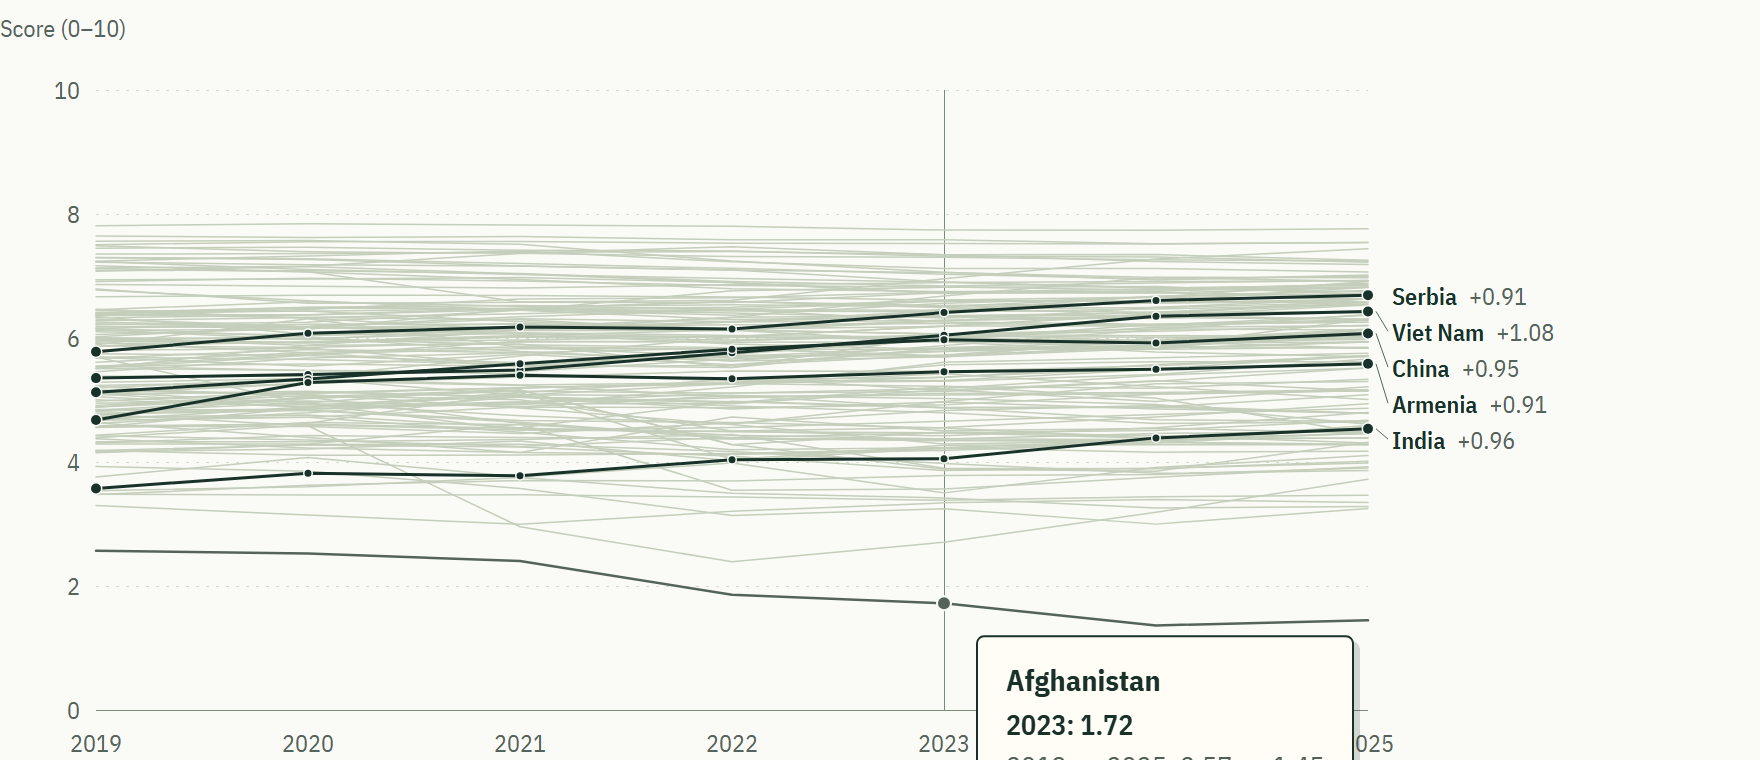
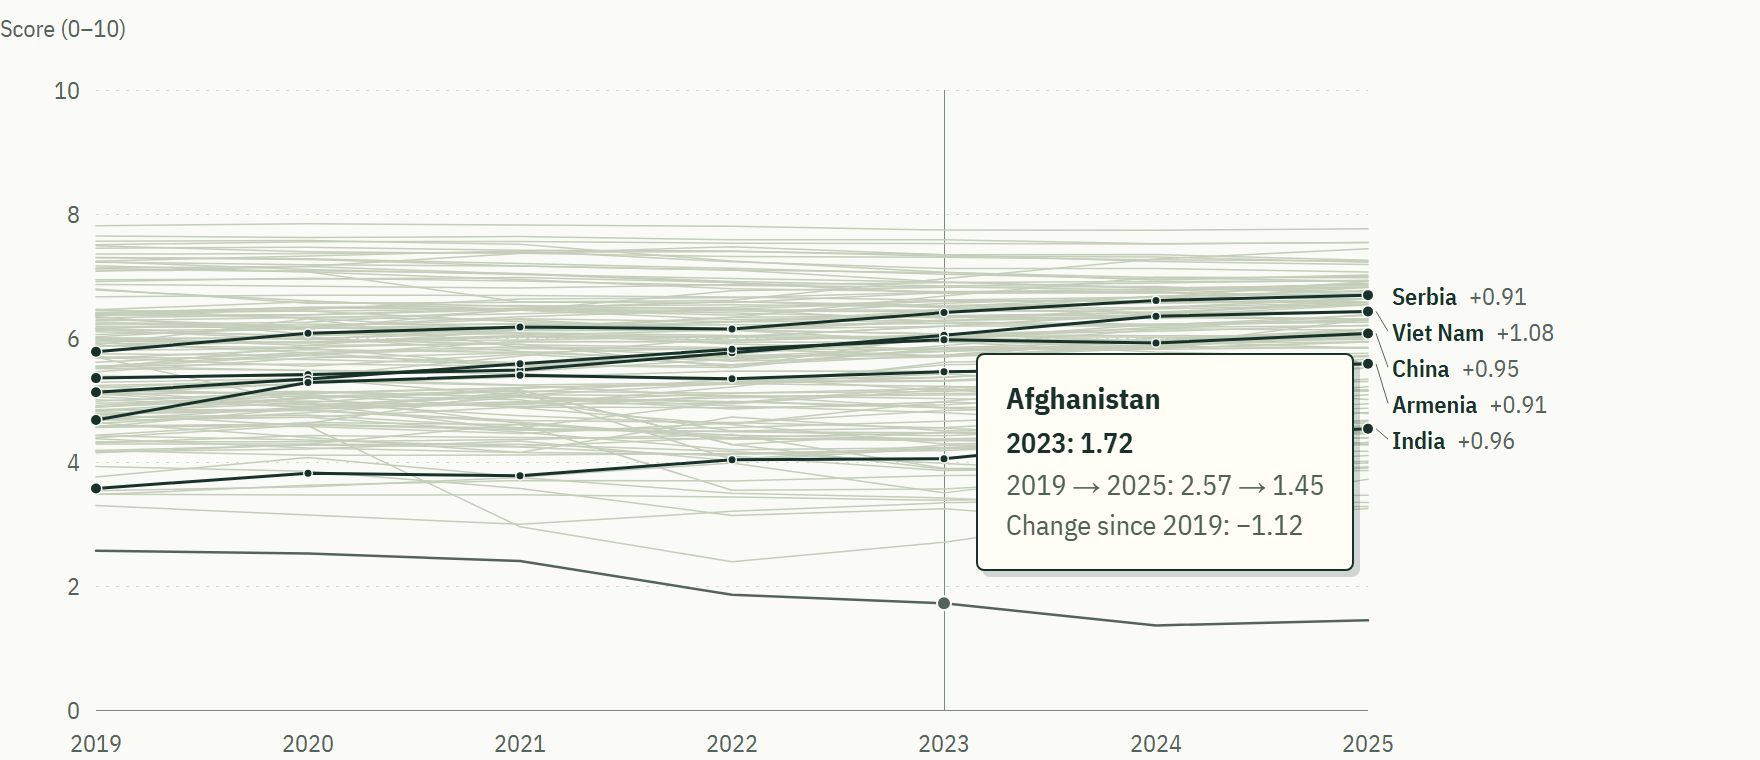
ai: fix what the final sweep found in this build
A read-only sweep of what the checker hadn't covered confirmed 9 findings, each verified by a skeptic.
None blocks submission. Fixed here:
- The chart 2 still had its tooltip cut off by the crop, since the one-screen layout stopped the page
  scrolling and the tooltip no longer flipped. Recaptured whole; capture_d3.py now stops if it leaves
  the crop.
- PageDown, PageUp, Home, End and, from the bare page, arrows and space did nothing until focus was
  inside the view, so the keyboard couldn't reach Figma vs D3 straight away. They're passed along now.
- With text spacing turned up, the data table button covered part of the source line's first letter.
- README and code comments that credited Figma for the Field Guide colors and fonts, and a README list
  missing views.js and tables.js. David: the README's AI-use line is reworded, so please read it.

Two screen reader labels are new copy the handoff didn't list: "Plates" and "Plates, previous and
next", the names of the navigation landmarks.

Checks: 100/100, each new check proved able to fail on a scratch copy.

diff --git a/js/chart3.js b/js/chart3.js
@@ -9,7 +9,7 @@ function chart3(data, continents) {
   const x = d3.scaleLinear().domain([0, 10]).range([328, 1608]);
   const ticks = [0, 2, 4, 6, 8, 10];
 
-  // legend label, tooltip title and figma color for each factor, in the stack's left-to-right order
+  // legend label, tooltip title and pigment for each factor, in the stack's left-to-right order
   const factors = {
     "GDP per Capita": { label: "GDP per capita", title: "Explained by GDP per capita", color: token("color-factor-gdp") },
     "Social Support": { label: "Social support", title: "Explained by social support", color: token("color-factor-social") },
@@ -77,7 +77,7 @@ function chart3(data, continents) {
     .attr("dominant-baseline", "central")
     .text(d => d.continent);
 
-  // a nested data join: each row's data is its 7 segments. the white stroke draws the 2px gaps
+  // a nested data join: each row's data is its 7 segments. the plate-colored stroke draws the 2px gaps
   const segments = row.selectAll(".segment").data(d => d.segments).join("path")
     .attr("class", "segment")
     .attr("fill", s => factors[s.name].color)

diff --git a/js/views.js b/js/views.js
@@ -84,6 +84,21 @@ function animateView(from, to) {
   }
 }
 
+// only the view scrolls, and it can't take focus itself, so the scroll keys do nothing until focus
+// is inside it. this passes them along from the hud and the bare page. arrows and space stay with
+// a focused chip or link, where they already mean something
+function passScrollKeys(event) {
+  if (event.altKey || event.ctrlKey || event.metaKey || event.target.closest(".views")) return;
+  const bare = event.target === document.body;
+  const jump = views.clientHeight * 0.9;
+  const moves = { PageDown: jump, PageUp: -jump, Home: -views.scrollTop, End: views.scrollHeight };
+  if (bare) Object.assign(moves, { ArrowDown: 40, ArrowUp: -40, " ": event.shiftKey ? -jump : jump });
+  if (!(event.key in moves)) return;
+  event.preventDefault();
+  views.scrollBy(0, moves[event.key]);
+}
+document.addEventListener("keydown", passScrollKeys);
+
 drawContours();
 let route = routeOf(location.hash);
 showView(route);

diff --git a/css/site.css b/css/site.css
@@ -504,7 +504,7 @@ h2 {
   justify-content: space-between;
   gap: 8px 16px;
   min-height: 44px;
-  padding-left: 124px;
+  padding-left: 140px;
   font-size: 13px;
   color: var(--color-text-secondary);
 }
@@ -577,7 +577,7 @@ code { font-family: ui-monospace, SFMono-Regular, Menlo, Consolas, monospace; fo
   font-weight: 600;
 }
 
-/* svg text uses the figma text styles at figma's own size; the viewbox scales them with the chart */
+/* svg text keeps figma's sizes in the field guide's ui font; the viewbox scales them with the chart */
 .chart text { font-family: var(--font-ui); font-variant-numeric: tabular-nums; }
 .t-footnote { font-size: var(--font-size-footnote); }
 .t-caption { font-size: var(--font-size-caption-1); }

diff --git a/js/theme.js b/js/theme.js
@@ -1,4 +1,4 @@
-// the figma tokens live in css/tokens.css. d3 needs real color values to animate from one
+// the design tokens live in css/tokens.css. d3 needs real color values to animate from one
 // color to another, so we read the css variables once here instead of retyping hex codes.
 const css = getComputedStyle(document.documentElement);
 const token = name => css.getPropertyValue(`--${name}`).trim();

diff --git a/scripts/check_page.py b/scripts/check_page.py
@@ -291,6 +291,38 @@ def run_checks(args, url, errors):
         roles = page.eval_on_selector_all("#chart1 .row, #chart2 .label, #chart3 .row", "e => e.filter(x => x.getAttribute('role') !== 'img' || !x.getAttribute('aria-label')).length")
         check("rows and labels have a role and a name", roles == 0, roles)
 
+        # the scroll keys reach the view from the bare page and from the hud, and arrows stay with a chip
+        scroller = browser.new_page(viewport={"width": 1280, "height": 720})
+        scroller.goto(url, wait_until="networkidle")
+        scroller.wait_for_selector("#chart3 .segment", state="attached")
+        at = "document.querySelector('.views').scrollTop"
+        scroller.keyboard.press("PageDown")
+        from_page = scroller.evaluate(at)
+        scroller.keyboard.press("Home")
+        home = scroller.evaluate(at)
+        scroller.keyboard.press("ArrowDown")
+        arrow = scroller.evaluate(at)
+        scroller.keyboard.press("Home")
+        scroller.locator("#continent-asia").focus()
+        scroller.keyboard.press("PageDown")
+        from_chip = scroller.evaluate(at)
+        scroller.keyboard.press("Home")
+        scroller.keyboard.press("ArrowDown")
+        arrow_chip = scroller.evaluate(at)
+        scroller.keyboard.press("End")
+        end = scroller.evaluate("(() => { const v = document.querySelector('.views'); return Math.abs(v.scrollTop + v.clientHeight - v.scrollHeight) < 2; })()")
+        check("the scroll keys reach the view from the page and the hud", from_page > 400 and home == 0 and arrow > 0 and from_chip > 400 and arrow_chip == 0 and end, (from_page, home, arrow, from_chip, arrow_chip, end))
+        scroller.close()
+
+        # the data table's button never covers the source line, even with text spacing turned up
+        spacing = browser.new_page(viewport={"width": 1280, "height": 720})
+        spacing.goto(f"{url}#plate-1", wait_until="networkidle")
+        spacing.wait_for_selector("#chart3 .segment", state="attached")
+        spacing.add_style_tag(content="* { line-height: 1.5 !important; letter-spacing: 0.12em !important; word-spacing: 0.16em !important; }")
+        clear = spacing.evaluate("document.querySelector('#chart1 summary').getBoundingClientRect().right <= document.querySelector('#chart1 .panel-foot span').getBoundingClientRect().left")
+        check("the data table button clears the source line at wide text spacing", clear, clear)
+        spacing.close()
+
         # the hud stays put while a view scrolls under it, and the page itself never scrolls
         open_view(page, "map")
         page.evaluate("document.querySelector('.views').scrollTop = 900")

diff --git a/scripts/capture_d3.py b/scripts/capture_d3.py
@@ -60,9 +60,11 @@ def main():
         page.screenshot(path=str(out / "chart1-d3.png"), clip=box)
         page.mouse.move(2, 2)
 
-        # chart 2: a grey line figma couldn't name. the chart sits at the window's bottom edge,
+        # chart 2: a grey line figma couldn't name. the window ends at the chart's bottom edge,
         # so the tooltip flips up instead of being cut off by the crop
         open_plate(page, 2)
+        box = clip_of(page, "#chart2")
+        page.set_viewport_size({"width": 1100, "height": round(box["height"]) + 40})
         box = clip_of(page, "#chart2", block="end")
         scale = box["width"] / 1760
         grey = next(s for s in data["chart2_lines"]["fallers"] if s["country"] == "Afghanistan")
@@ -70,7 +72,10 @@ def main():
         py = box["y"] + (910 - grey["scores"][4] * 62 - 200) * scale
         page.mouse.move(px, py)
         page.wait_for_timeout(300)
+        tip = page.locator(".tooltip").bounding_box()
+        assert box["y"] <= tip["y"] and tip["y"] + tip["height"] <= box["y"] + box["height"], f"tooltip leaves the crop: {tip} {box}"
         page.screenshot(path=str(out / "chart2-d3.png"), clip=box)
+        page.set_viewport_size({"width": 1100, "height": 1000})
         page.mouse.move(2, 2)
 
         # chart 3: the continent filter that links all three charts

diff --git a/README.md b/README.md
@@ -16,8 +16,8 @@ The three World Happiness dashboards from Open Skill 1 were first built in Figma
 ## How it's built
 - `data/chart-data.json`: regenerated from the course CSV by Open Skill 1's `scripts/prep_data.py`. Its SHA-256 starts with `22c8681b`, byte-identical to Open Skill 1's verified file
 - `data/continents.json`: each charted country's continent, using the same rule as chart 3 (`scripts/build_continents.py`)
-- `css/tokens.css`: generated from the Figma file's variables (`scripts/figma_tokens.py`), so colors, type and spacing match the Figma dashboards
-- `js/`: one D3 module per chart (`chart1.js`, `chart2.js`, `chart3.js`), plus `tooltip.js`, `format.js` (Open Skill 1's rounding rules), `theme.js` and `main.js`
+- `css/tokens.css`: generated from `scripts/figma-variables.json` by `scripts/figma_tokens.py`. Type sizes and spacing come from the Figma file's variables; the colors and fonts are the Field Guide look David picked, not yet added to the Figma file
+- `js/`: one D3 module per chart (`chart1.js`, `chart2.js`, `chart3.js`), plus `views.js` (the map and plate screens), `tables.js`, `tooltip.js`, `format.js` (Open Skill 1's rounding rules), `theme.js` and `main.js`
 - `scripts/check_page.py`: headless-browser checks that compare every drawn label, bar and interaction with the data
 
 ## Run it locally
@@ -27,4 +27,4 @@ python -m http.server 8000
 Then open http://localhost:8000. The page fetches its JSON, so it needs a server rather than a double-clicked file.
 
 ## AI use
-The code was written with Claude (Anthropic) and directed by David Doctor, who chose every chart and interaction. The data and design come from Open Skill 1.
+The code was written with Claude (Anthropic) and directed by David Doctor, who chose every chart and interaction. The data and the chart forms come from Open Skill 1. The Field Guide look is David's pick from directions Claude drafted.
